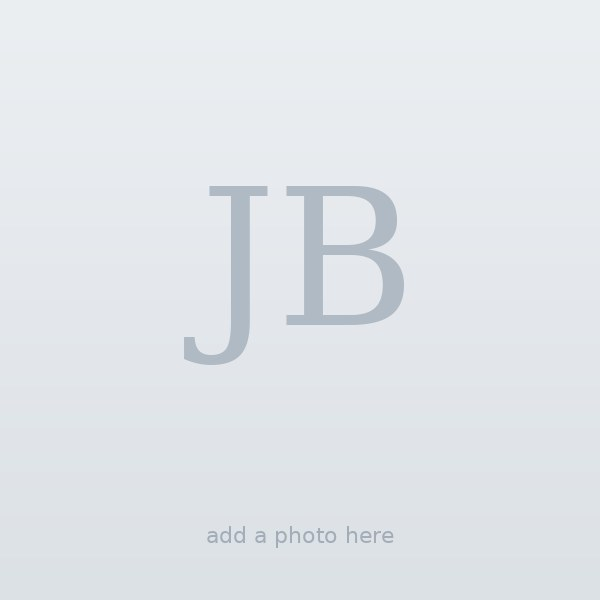
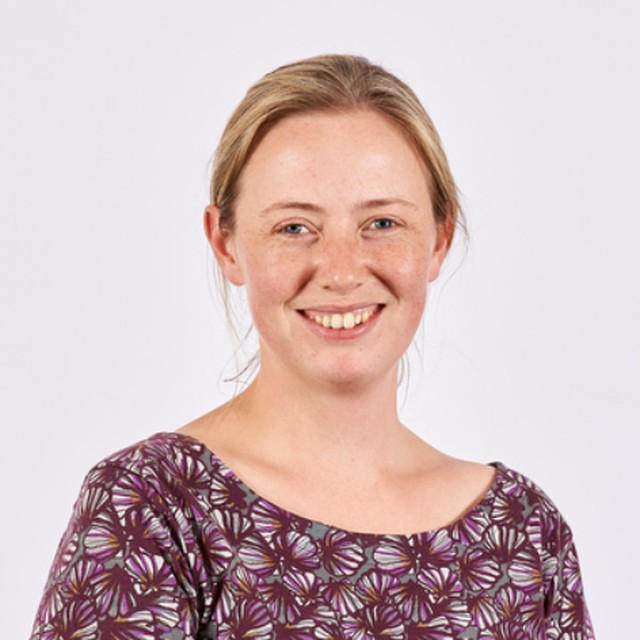
Add files via upload

diff --git a/assets/site.css b/assets/site.css
@@ -79,7 +79,24 @@ p:lang(en){hyphenate-limit-chars:7 3 3}
 .burger span::before{top:-5px}.burger span::after{top:5px}
 
 /* ─────────────── hero ─────────────── */
-.hero{padding:clamp(38px,6vw,74px) 0 clamp(34px,5vw,60px);background:#fff;border-bottom:1px solid var(--line)}
+.hero{position:relative;isolation:isolate;overflow:hidden;
+  padding:clamp(46px,7vw,88px) 0 clamp(42px,6vw,74px);background:#fff;border-bottom:1px solid var(--line)}
+/* two faint colour blooms give the white page depth without a photo background */
+.hero::before{content:"";position:absolute;inset:-20% -10%;z-index:-2;pointer-events:none;
+  background:
+    radial-gradient(46% 52% at 82% 18%,rgba(42,90,168,.13),transparent 70%),
+    radial-gradient(40% 46% at 92% 76%,rgba(184,58,41,.11),transparent 72%),
+    radial-gradient(38% 44% at 6% 88%,rgba(23,120,98,.10),transparent 70%)}
+/* a fine graticule, the way a map is ruled */
+.hero::after{content:"";position:absolute;inset:0;z-index:-1;pointer-events:none;opacity:.5;
+  background-image:linear-gradient(var(--line) 1px,transparent 1px),
+                   linear-gradient(90deg,var(--line) 1px,transparent 1px);
+  background-size:64px 64px;
+  -webkit-mask-image:radial-gradient(72% 70% at 30% 40%,#000 0%,transparent 78%);
+  mask-image:radial-gradient(72% 70% at 30% 40%,#000 0%,transparent 78%)}
+.hero .wrap{position:relative;z-index:1}
+.hero h1::after{content:"";display:block;width:96px;height:5px;border-radius:3px;margin:18px 0 0;
+  background:linear-gradient(90deg,var(--blue-a),var(--teal-a),var(--amber-a),var(--red-a))}
 .hero-grid{display:grid;grid-template-columns:minmax(0,1fr) 300px;gap:clamp(28px,5vw,58px);align-items:center}
 .hero h1{font-size:clamp(36px,5.8vw,60px);line-height:1.04;letter-spacing:-.022em;margin-bottom:16px}
 .hero .stance{font-family:var(--display);font-size:clamp(18px,2.2vw,22px);font-style:italic;
@@ -89,13 +106,27 @@ p:lang(en){hyphenate-limit-chars:7 3 3}
 .hero .whereabouts b{color:var(--ink);font-weight:600}
 .hero-acts{display:flex;flex-wrap:wrap;gap:10px}
 
-.portrait{position:relative;width:300px;justify-self:end}
-.portrait .plate{position:absolute;inset:16px -16px -16px 16px;border-radius:var(--r);
-  background:linear-gradient(150deg,var(--blue-t),var(--teal-t) 45%,var(--amber-t));
-  border:1px solid var(--line)}
-.portrait .ring{position:absolute;inset:-9px;border-radius:calc(var(--r) + 8px);border:1px solid var(--red-e)}
-.portrait img{position:relative;width:100%;aspect-ratio:1/1;object-fit:cover;border-radius:var(--r);
-  border:6px solid #fff;box-shadow:0 16px 40px rgba(22,32,44,.16);background:var(--slate-t)}
+.portrait{position:relative;width:310px;justify-self:end;padding:18px}
+/* back plate, tilted, carrying the colour */
+.portrait .plate{position:absolute;inset:26px 0 6px 26px;border-radius:20px;transform:rotate(-3.2deg);
+  background:linear-gradient(148deg,var(--blue-t),var(--teal-t) 46%,var(--amber-t));
+  border:1px solid var(--edge,var(--line));box-shadow:0 10px 28px rgba(22,32,44,.10)}
+/* mid plate, tilted the other way, almost white */
+.portrait .plate2{position:absolute;inset:14px 14px 14px 0;border-radius:19px;transform:rotate(2deg);
+  background:linear-gradient(160deg,#fff,rgba(255,255,255,.6));
+  border:1px solid var(--line);box-shadow:0 8px 22px rgba(22,32,44,.07)}
+/* hairline ring around the whole stack */
+.portrait .ring{position:absolute;inset:0;border-radius:24px;border:1px solid var(--red-e);
+  pointer-events:none}
+/* corner brackets, drawn not imported */
+.portrait .ring::before,.portrait .ring::after{content:"";position:absolute;width:26px;height:26px}
+.portrait .ring::before{top:-1px;left:-1px;border-top:2px solid var(--red-a);border-left:2px solid var(--red-a);
+  border-radius:8px 0 0 0}
+.portrait .ring::after{bottom:-1px;right:-1px;border-bottom:2px solid var(--teal-a);
+  border-right:2px solid var(--teal-a);border-radius:0 0 8px 0}
+.portrait img{position:relative;z-index:2;width:100%;aspect-ratio:1/1;object-fit:cover;border-radius:14px;
+  border:7px solid #fff;background:var(--slate-t);
+  box-shadow:0 22px 48px rgba(22,32,44,.22),0 2px 6px rgba(22,32,44,.10)}
 
 /* ─────────────── page header ─────────────── */
 .phead{padding:clamp(34px,5vw,58px) 0 clamp(26px,4vw,40px);border-bottom:1px solid var(--line)}
@@ -214,7 +245,8 @@ h2.head{font-size:clamp(24px,3.1vw,32px);margin-bottom:11px}
 .pubset{margin-bottom:40px}
 .pubset>h2{font-size:23px;margin-bottom:4px}
 .pubset>.n{font-family:var(--mono);font-size:12.5px;color:var(--ink-3);margin-bottom:20px}
-.paper{overflow:hidden;margin-bottom:18px}
+.papergrid{display:grid;grid-template-columns:repeat(auto-fill,minmax(370px,1fr));gap:22px;align-items:stretch}
+.paper{overflow:hidden;display:flex;flex-direction:column;height:100%}
 
 .paper-top{display:flex;flex-wrap:wrap;align-items:center;gap:10px;padding:14px 22px;
   background:var(--tint);border-bottom:1px solid var(--edge)}
@@ -224,14 +256,15 @@ h2.head{font-size:clamp(24px,3.1vw,32px);margin-bottom:11px}
   background:#fff;border:1px solid var(--edge);padding:4px 10px;border-radius:8px}
 .rank{margin-left:auto;font-size:12.5px;font-weight:600;color:var(--acc);
   background:#fff;border:1px solid var(--edge);padding:4px 11px;border-radius:999px}
-.paper-body{padding:20px 22px 22px}
-.paper h3{font-size:20px;line-height:1.34;margin-bottom:11px}
+.paper-body{padding:20px 22px 22px;display:flex;flex-direction:column;flex:1}
+.paper h3{font-size:18.5px;line-height:1.34;margin-bottom:10px}
 .authors{font-size:14.5px;line-height:1.9;color:var(--ink-2);margin-bottom:9px}
 .authors .me{background:var(--acc);color:#fff;padding:2px 9px;border-radius:6px;font-weight:600;
   white-space:nowrap;box-decoration-break:clone;-webkit-box-decoration-break:clone}
 .pub-note{font-size:14.5px;line-height:1.7;color:var(--ink-2);padding:12px 15px;border-radius:10px;
   background:var(--tint);border:1px solid var(--edge);margin:12px 0}
 .chips{display:flex;flex-wrap:wrap;gap:8px;margin-top:12px}
+.paper-body .chips{margin-top:auto;padding-top:14px}
 .chips a,.chips span{font-size:12.5px;font-weight:600;padding:6px 12px;border-radius:8px;
   border:1px solid var(--line);background:#fff;color:var(--ink-2);transition:all .14s}
 .chips a:hover{border-color:var(--acc);color:var(--acc);background:var(--tint);text-decoration:none}
@@ -361,6 +394,9 @@ h2.head{font-size:clamp(24px,3.1vw,32px);margin-bottom:11px}
   .tool figure{max-width:250px}
   .deflist{grid-template-columns:1fr;gap:3px}
   .deflist dt{padding-top:11px}
+}
+@media(max-width:820px){
+  .papergrid{grid-template-columns:1fr}
 }
 @media(max-width:560px){
   .gallery{columns:1;column-count:1}

diff --git a/site.css b/site.css
@@ -79,7 +79,24 @@ p:lang(en){hyphenate-limit-chars:7 3 3}
 .burger span::before{top:-5px}.burger span::after{top:5px}
 
 /* ─────────────── hero ─────────────── */
-.hero{padding:clamp(38px,6vw,74px) 0 clamp(34px,5vw,60px);background:#fff;border-bottom:1px solid var(--line)}
+.hero{position:relative;isolation:isolate;overflow:hidden;
+  padding:clamp(46px,7vw,88px) 0 clamp(42px,6vw,74px);background:#fff;border-bottom:1px solid var(--line)}
+/* two faint colour blooms give the white page depth without a photo background */
+.hero::before{content:"";position:absolute;inset:-20% -10%;z-index:-2;pointer-events:none;
+  background:
+    radial-gradient(46% 52% at 82% 18%,rgba(42,90,168,.13),transparent 70%),
+    radial-gradient(40% 46% at 92% 76%,rgba(184,58,41,.11),transparent 72%),
+    radial-gradient(38% 44% at 6% 88%,rgba(23,120,98,.10),transparent 70%)}
+/* a fine graticule, the way a map is ruled */
+.hero::after{content:"";position:absolute;inset:0;z-index:-1;pointer-events:none;opacity:.5;
+  background-image:linear-gradient(var(--line) 1px,transparent 1px),
+                   linear-gradient(90deg,var(--line) 1px,transparent 1px);
+  background-size:64px 64px;
+  -webkit-mask-image:radial-gradient(72% 70% at 30% 40%,#000 0%,transparent 78%);
+  mask-image:radial-gradient(72% 70% at 30% 40%,#000 0%,transparent 78%)}
+.hero .wrap{position:relative;z-index:1}
+.hero h1::after{content:"";display:block;width:96px;height:5px;border-radius:3px;margin:18px 0 0;
+  background:linear-gradient(90deg,var(--blue-a),var(--teal-a),var(--amber-a),var(--red-a))}
 .hero-grid{display:grid;grid-template-columns:minmax(0,1fr) 300px;gap:clamp(28px,5vw,58px);align-items:center}
 .hero h1{font-size:clamp(36px,5.8vw,60px);line-height:1.04;letter-spacing:-.022em;margin-bottom:16px}
 .hero .stance{font-family:var(--display);font-size:clamp(18px,2.2vw,22px);font-style:italic;
@@ -89,13 +106,27 @@ p:lang(en){hyphenate-limit-chars:7 3 3}
 .hero .whereabouts b{color:var(--ink);font-weight:600}
 .hero-acts{display:flex;flex-wrap:wrap;gap:10px}
 
-.portrait{position:relative;width:300px;justify-self:end}
-.portrait .plate{position:absolute;inset:16px -16px -16px 16px;border-radius:var(--r);
-  background:linear-gradient(150deg,var(--blue-t),var(--teal-t) 45%,var(--amber-t));
-  border:1px solid var(--line)}
-.portrait .ring{position:absolute;inset:-9px;border-radius:calc(var(--r) + 8px);border:1px solid var(--red-e)}
-.portrait img{position:relative;width:100%;aspect-ratio:1/1;object-fit:cover;border-radius:var(--r);
-  border:6px solid #fff;box-shadow:0 16px 40px rgba(22,32,44,.16);background:var(--slate-t)}
+.portrait{position:relative;width:310px;justify-self:end;padding:18px}
+/* back plate, tilted, carrying the colour */
+.portrait .plate{position:absolute;inset:26px 0 6px 26px;border-radius:20px;transform:rotate(-3.2deg);
+  background:linear-gradient(148deg,var(--blue-t),var(--teal-t) 46%,var(--amber-t));
+  border:1px solid var(--edge,var(--line));box-shadow:0 10px 28px rgba(22,32,44,.10)}
+/* mid plate, tilted the other way, almost white */
+.portrait .plate2{position:absolute;inset:14px 14px 14px 0;border-radius:19px;transform:rotate(2deg);
+  background:linear-gradient(160deg,#fff,rgba(255,255,255,.6));
+  border:1px solid var(--line);box-shadow:0 8px 22px rgba(22,32,44,.07)}
+/* hairline ring around the whole stack */
+.portrait .ring{position:absolute;inset:0;border-radius:24px;border:1px solid var(--red-e);
+  pointer-events:none}
+/* corner brackets, drawn not imported */
+.portrait .ring::before,.portrait .ring::after{content:"";position:absolute;width:26px;height:26px}
+.portrait .ring::before{top:-1px;left:-1px;border-top:2px solid var(--red-a);border-left:2px solid var(--red-a);
+  border-radius:8px 0 0 0}
+.portrait .ring::after{bottom:-1px;right:-1px;border-bottom:2px solid var(--teal-a);
+  border-right:2px solid var(--teal-a);border-radius:0 0 8px 0}
+.portrait img{position:relative;z-index:2;width:100%;aspect-ratio:1/1;object-fit:cover;border-radius:14px;
+  border:7px solid #fff;background:var(--slate-t);
+  box-shadow:0 22px 48px rgba(22,32,44,.22),0 2px 6px rgba(22,32,44,.10)}
 
 /* ─────────────── page header ─────────────── */
 .phead{padding:clamp(34px,5vw,58px) 0 clamp(26px,4vw,40px);border-bottom:1px solid var(--line)}
@@ -214,7 +245,8 @@ h2.head{font-size:clamp(24px,3.1vw,32px);margin-bottom:11px}
 .pubset{margin-bottom:40px}
 .pubset>h2{font-size:23px;margin-bottom:4px}
 .pubset>.n{font-family:var(--mono);font-size:12.5px;color:var(--ink-3);margin-bottom:20px}
-.paper{overflow:hidden;margin-bottom:18px}
+.papergrid{display:grid;grid-template-columns:repeat(auto-fill,minmax(370px,1fr));gap:22px;align-items:stretch}
+.paper{overflow:hidden;display:flex;flex-direction:column;height:100%}
 
 .paper-top{display:flex;flex-wrap:wrap;align-items:center;gap:10px;padding:14px 22px;
   background:var(--tint);border-bottom:1px solid var(--edge)}
@@ -224,14 +256,15 @@ h2.head{font-size:clamp(24px,3.1vw,32px);margin-bottom:11px}
   background:#fff;border:1px solid var(--edge);padding:4px 10px;border-radius:8px}
 .rank{margin-left:auto;font-size:12.5px;font-weight:600;color:var(--acc);
   background:#fff;border:1px solid var(--edge);padding:4px 11px;border-radius:999px}
-.paper-body{padding:20px 22px 22px}
-.paper h3{font-size:20px;line-height:1.34;margin-bottom:11px}
+.paper-body{padding:20px 22px 22px;display:flex;flex-direction:column;flex:1}
+.paper h3{font-size:18.5px;line-height:1.34;margin-bottom:10px}
 .authors{font-size:14.5px;line-height:1.9;color:var(--ink-2);margin-bottom:9px}
 .authors .me{background:var(--acc);color:#fff;padding:2px 9px;border-radius:6px;font-weight:600;
   white-space:nowrap;box-decoration-break:clone;-webkit-box-decoration-break:clone}
 .pub-note{font-size:14.5px;line-height:1.7;color:var(--ink-2);padding:12px 15px;border-radius:10px;
   background:var(--tint);border:1px solid var(--edge);margin:12px 0}
 .chips{display:flex;flex-wrap:wrap;gap:8px;margin-top:12px}
+.paper-body .chips{margin-top:auto;padding-top:14px}
 .chips a,.chips span{font-size:12.5px;font-weight:600;padding:6px 12px;border-radius:8px;
   border:1px solid var(--line);background:#fff;color:var(--ink-2);transition:all .14s}
 .chips a:hover{border-color:var(--acc);color:var(--acc);background:var(--tint);text-decoration:none}
@@ -361,6 +394,9 @@ h2.head{font-size:clamp(24px,3.1vw,32px);margin-bottom:11px}
   .tool figure{max-width:250px}
   .deflist{grid-template-columns:1fr;gap:3px}
   .deflist dt{padding-top:11px}
+}
+@media(max-width:820px){
+  .papergrid{grid-template-columns:1fr}
 }
 @media(max-width:560px){
   .gallery{columns:1;column-count:1}

diff --git a/publications.html b/publications.html
@@ -49,7 +49,7 @@
 <div class="pubset">
   <h2>Peer-reviewed journal articles</h2>
   <p class="n">5 papers &middot; 4 first-authored</p>
-
+<div class="papergrid">
   <article class="paper c-amber">
     <div class="paper-top"><span class="journal">Tectonophysics</span><span class="year">2026</span><span class="rank">Second author</span></div>
     <div class="paper-body">
@@ -100,11 +100,12 @@
     </div>
   </article>
 </div>
+</div>
 
 <div class="pubset">
   <h2>In preparation</h2>
   <p class="n">2 manuscripts</p>
-
+<div class="papergrid">
   <article class="paper c-slate">
     <div class="paper-top"><span class="journal">Manuscript</span><span class="year">in prep</span><span class="rank">Third author</span></div>
     <div class="paper-body">
@@ -125,11 +126,12 @@
     </div>
   </article>
 </div>
+</div>
 
 <div class="pubset">
   <h2>Software</h2>
   <p class="n">2 archived, citable releases</p>
-
+<div class="papergrid">
   <article class="paper c-violet">
     <div class="paper-top"><span class="journal">Zenodo</span><span class="year">2025</span><span class="rank">Lead developer</span></div>
     <div class="paper-body">
@@ -150,11 +152,12 @@
     </div>
   </article>
 </div>
+</div>
 
 <div class="pubset">
   <h2>Conference contributions</h2>
   <p class="n">7 contributions &middot; 2020&ndash;2026</p>
-
+<div class="papergrid">
   <article class="paper c-blue">
     <div class="paper-top"><span class="journal">EGU 2026</span><span class="year">Vienna</span><span class="rank">Second author</span></div>
     <div class="paper-body">
@@ -224,6 +227,7 @@
       
     </div>
   </article>
+</div>
 </div>
 </div></section>
 <footer class="foot">

diff --git a/people.html b/people.html
@@ -72,7 +72,7 @@
 
   <div class="note c-slate" style="margin-top:30px"><b>Adding more people.</b> Copy one
   <code>&lt;article class="person"&gt;</code> block in <code>people.html</code> and edit the fields. Drop a
-  square image into <code>images/people/</code> named after the person, such as
+  square photograph into <code>images/people/</code> named after the person, such as
   <code>images/people/jane-doe.jpg</code>, and point the <code>src</code> at it. Change the colour by
   swapping <code>c-red</code> for <code>c-teal</code>, <code>c-blue</code>, <code>c-amber</code> or
   <code>c-violet</code>. Only use photographs you have permission to publish; linking to someone's

diff --git a/index.html b/index.html
@@ -49,8 +49,9 @@
       </div>
       <div class="portrait">
         <div class="plate" aria-hidden="true"></div>
-        <div class="ring" aria-hidden="true"></div>
+        <div class="plate2" aria-hidden="true"></div>
         <img src="images/profile.jpg" alt="Mohammadhossein Mohammadnia">
+        <div class="ring" aria-hidden="true"></div>
       </div>
     </div>
   </div>
